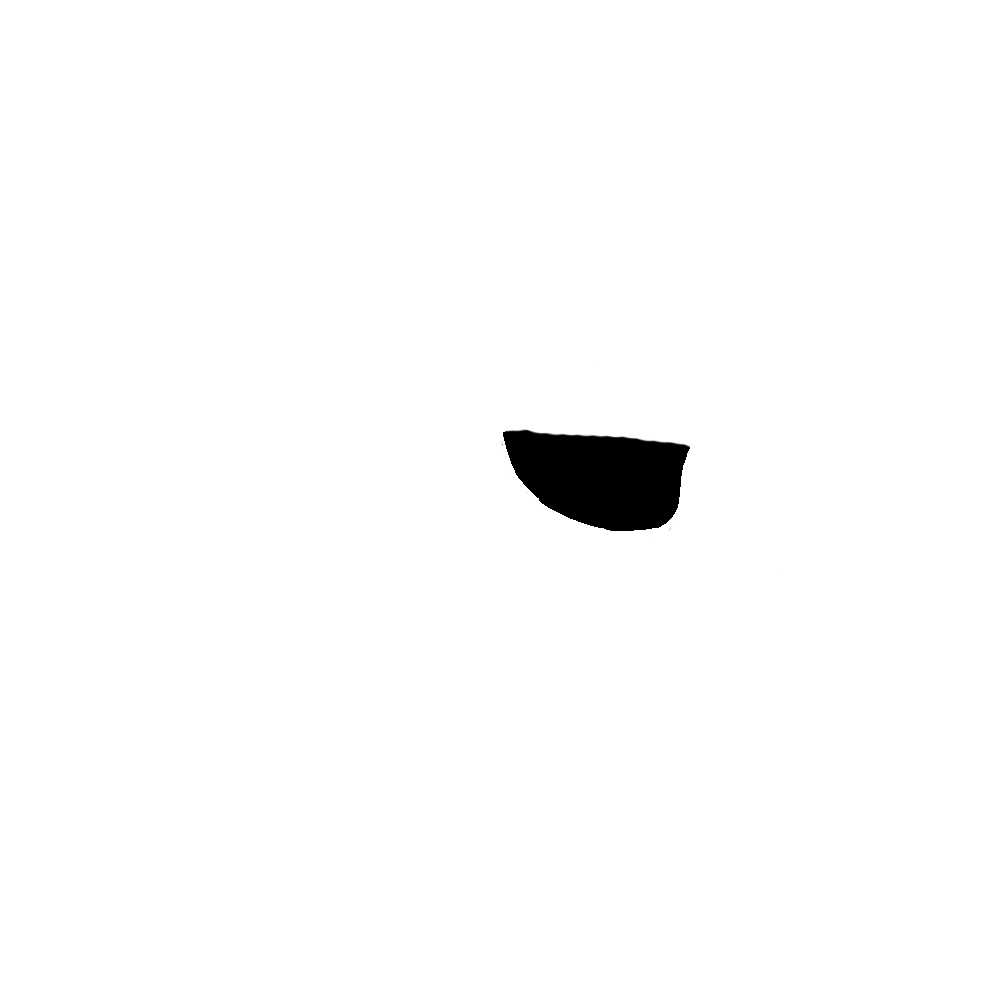
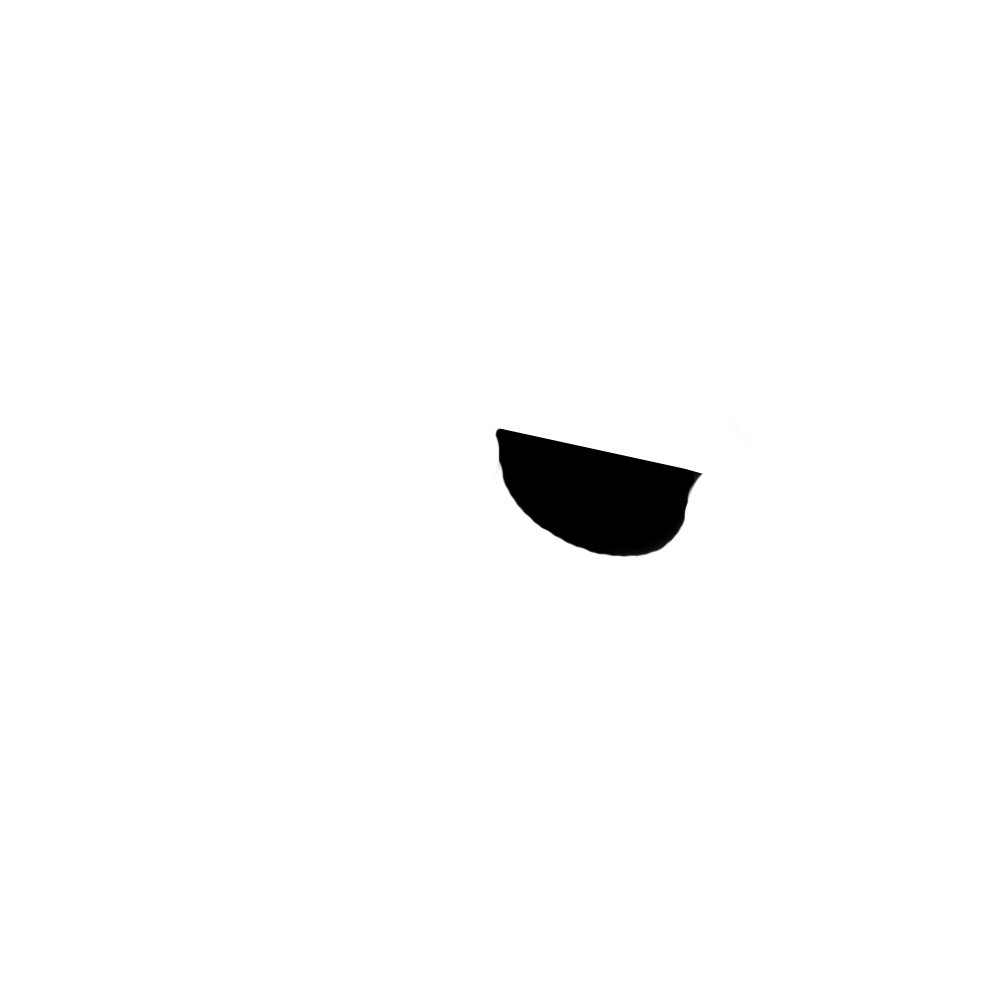
DHC: the head draws under the torso
Owner's observation: a head's neck is drawn down past the jaw, and over the
torso it lay ON TOP of the neckline instead of going into it. A neck that
overlaps the collar reads as a head resting on a body; a neck that disappears
behind it reads as a head IN a body, which is what the art is drawn for.

Base order is now background, weaponBack, head, torso, ... in both the config
and the canvas.

THIS DOES NOT CHANGE HOW MUCH BACKGROUND SHOWS, which is worth stating because
it is the obvious thing to assume. Background shows wherever NEITHER layer
covers, and no ordering can affect that -- measured both ways, identical to the
pixel. The neck fill is what closes that gap and is untouched; the two changes
fix different halves of the same junction.

Three things had to move with the head, because they were anchored to it back
when "after the head" also meant "over the body":

  - the neck fill, now emitted under the HEAD rather than under the torso, so
    the stack is background, fill, head, torso as intended
  - the Demon's claws, now anchored on the torso -- on the head they would have
    been drawn behind the chest, a demon gripping the Fighter from inside it
  - the arms that are meant to cover those claws, same reason; on the head they
    landed before the torso and the arms vanished behind the body

Shipping on the owner's call to look at it before deciding whether to keep it.
Known and NOT addressed: digi-goo-trap now draws over the face. It is the only
[…]

Changed region(s): [[0.496, 0.403, 0.713, 0.558]]

diff --git a/dhcfighters-config.php b/dhcfighters-config.php
@@ -78,9 +78,23 @@ define('DHCF_RULES_VERSION', '1');
  * same category, as do both effects slots -- owning a trait lets you place it
  * in either, subject to the front/back partition the assembler enforces.
  * ------------------------------------------------------------------ */
+/*
+ * THE HEAD DRAWS UNDER THE TORSO.
+ *
+ * It used to draw over it, and that was wrong in the one place the two meet:
+ * a head's neck is drawn down past the jaw, and over the torso it lay ON TOP
+ * of the neckline instead of going into it. A neck that overlaps the collar
+ * reads as a head resting on a body; a neck that disappears behind it reads as
+ * a head IN a body, which is what the art is drawn for.
+ *
+ * THIS DOES NOT CHANGE HOW MUCH BACKGROUND SHOWS. Background shows wherever
+ * NEITHER layer covers, which no ordering can affect -- measured both ways and
+ * identical to the pixel. The neck fill is what closes that, and it is
+ * unaffected by this; the two changes solve different halves of the junction.
+ */
 function dhcf_slots() {
-	return array('background', 'weaponBack', 'torso', 'weapon', 'arms',
-	             'effects1', 'effects2', 'head', 'headgear', 'companion');
+	return array('background', 'weaponBack', 'head', 'torso', 'weapon', 'arms',
+	             'effects1', 'effects2', 'headgear', 'companion');
 }
 
 function dhcf_slot_category($slot) {
@@ -584,11 +598,19 @@ function dhcf_companion_blocked($head, $companion) {
 	return isset($x[$head]) && in_array($companion, $x[$head], true);
 }
 
-/** Which slot the claws are drawn immediately after. */
+/**
+ * Which slot the claws are drawn immediately after.
+ *
+ * THE TORSO, NOT THE HEAD. It was the head, back when the head drew over the
+ * torso and "after the head" therefore meant "over the body as well". The head
+ * draws UNDER the torso now, so anchoring there would put the claws behind the
+ * chest -- a demon gripping a Fighter from inside it. The claws have to be
+ * over both, and the torso is the later of the two.
+ */
 function dhcf_twopart_hands_after($traits) {
 	$gear = isset($traits['headgear']) ? $traits['headgear'] : '';
 	if ($gear !== '' && in_array($gear, DHCF_TWOPART_HANDS_OVER_HEADGEAR, true)) return 'headgear';
-	return 'head';
+	return 'torso';
 }
 
 /** Is this companion the attached kind, with a second piece over the front? */
@@ -751,12 +773,14 @@ function dhcf_layer_order($traits) {
 			$order = dhcf_move_before($order, 'companion', 'torso');
 		}
 
-		/* After the HEAD, not last. dhcf_layers() inserts the claws immediately
-		   after the head slot, so head > claws > arms > headgear puts the arm
-		   over the claws without also lifting it over the helmet -- which
-		   dhcf_move_last() would have done. */
+		/* After the TORSO, not last, and not after the head. It was the head,
+		   when the head drew over the torso; now the head draws under it, so
+		   moving the arms there would put them behind the chest. The claws are
+		   emitted after the torso (see dhcf_twopart_hands_after), so
+		   torso > claws > arms > headgear puts the arm over the claws without
+		   also lifting it over the helmet -- which dhcf_move_last() would. */
 		if ($arms2 !== '' && in_array($arms2, DHCF_TWOPART_HANDS_UNDER_ARMS, true)) {
-			$order = dhcf_move_after($order, 'arms', 'head');
+			$order = dhcf_move_after($order, 'arms', 'torso');
 		}
 	}
 	if (!empty($traits['arms']) && in_array($traits['arms'], DHCF_ARMS_BEHIND_TORSO, true)) {

diff --git a/dhc-assembler.php b/dhc-assembler.php
@@ -54,6 +54,7 @@ $dhc_base = dhcf_art_dir();
 $dhc_slots = array(
 	'background' => array('Background',      'background', false),
 	'weaponBack' => array('Weapon (behind)', 'weapon',     true),
+	'head'       => array('Head',            'head',       false),
 	'torso'      => array('Torso',           'torso',      false),
 	// WEAPON BEFORE ARMS. A weapon is gripped, so the hand and forearm belong in
 	// front of it -- drawing arms first put the grip over the knuckles. Reported
@@ -69,7 +70,6 @@ $dhc_slots = array(
 	// interchangeable slots, so which one a trait goes in decides what covers what.
 	'effects1'   => array('Effects 1',       'effects',    true),
 	'effects2'   => array('Effects 2',       'effects',    true),
-	'head'       => array('Head',            'head',       false),
 	'headgear'   => array('Headgear',        'headgear',   true),
 	'companion'  => array('Companion',       'companion',  true),
 );
@@ -760,8 +760,11 @@ a{color:var(--ochre)}
            && !companionBlocked(sel.head, sel.companion);
   }
   /* Which slot the claws are drawn immediately after. */
+  /* THE TORSO, not the head -- the head draws under the torso now, so anchoring
+     the claws there would put them behind the chest. See
+     dhcf_twopart_hands_after(). */
   function twoPartHandsAfter() {
-    return (sel.headgear && TP_HANDS_OVER_GEAR.indexOf(sel.headgear) !== -1) ? 'headgear' : 'head';
+    return (sel.headgear && TP_HANDS_OVER_GEAR.indexOf(sel.headgear) !== -1) ? 'headgear' : 'torso';
   }
   function armsOverHeadgear() {
     return !!(sel.headgear && sel.arms
@@ -1143,7 +1146,7 @@ a{color:var(--ochre)}
       if (sel.arms && TP_OVER_ARMS.indexOf(sel.arms) !== -1)            mv('companion', 'arms', true);
       else if (sel.torso && TP_BODY_OVER_TORSO.indexOf(sel.torso) !== -1) mv('companion', 'torso', true);
       else                                                              mv('companion', 'torso', false);
-      if (sel.arms && TP_HANDS_UNDER_ARMS.indexOf(sel.arms) !== -1)     mv('arms', 'head', true);
+      if (sel.arms && TP_HANDS_UNDER_ARMS.indexOf(sel.arms) !== -1)     mv('arms', 'torso', true);
     }
     if (armsBehindTorso()) {
       var k = order.map(function (s) { return s.key; });
@@ -1328,8 +1331,8 @@ a{color:var(--ochre)}
     }
     // keep DOM order == layer order, regardless of the order things were picked
     layerOrder().forEach(function (s) {
-      // the neck fill goes UNDER the torso, so it is appended before it
-      if (s.key === 'torso') {
+      // the neck fill goes under the HEAD, which itself goes under the torso
+      if (s.key === 'head') {
         var nf = document.getElementById('L-neckfill');
         if (nf) frame.appendChild(nf);
       }

diff --git a/dhc-layerorder-harness.php b/dhc-layerorder-harness.php
@@ -369,7 +369,11 @@ if (DHCF_COMPANION_TWO_PART) {
 	/* And the anchor the canvas picks has to be the same one, for both kinds
 	   of headgear -- that is the whole of the rule the two share. */
 	foreach (array(DHCF_TWOPART_HANDS_OVER_HEADGEAR[0] => 'headgear',
-	               '666-demon-headgear'                => 'head') as $gear => $want) {
+	/* 'torso', not 'head': the head draws UNDER the torso now, so anchoring the
+	   claws on it would put them behind the chest. The five helmets on
+	   DHCF_TWOPART_HANDS_OVER_HEADGEAR are unchanged -- those still want the
+	   claws over the helmet, which is later again. */
+	               '666-demon-headgear'                => 'torso') as $gear => $want) {
 		ok(dhcf_twopart_hands_after(array('headgear' => $gear)) === $want,
 		   "php anchors the claws on '" . dhcf_twopart_hands_after(array('headgear' => $gear))
 		 . "' with $gear, not '$want'");
@@ -679,8 +683,9 @@ if (DHCF_COMPANION_TWO_PART) {
 		                     file_get_contents(__DIR__ . '/dhc-assembler.php'));
 		ok(strpos($asm4, "url('neckfill', 'neckfill', 1000)") !== false,
 		   'the canvas does not build the neck fill path, so the assembler keeps the bleed');
-		ok(preg_match("/if \(s\.key === 'torso'\) \{\s*var nf = document\.getElementById\('L-neckfill'\);/", $asm4) === 1,
-		   'the canvas does not append the neck fill immediately before the torso');
+		/* Before the HEAD, which is itself before the torso. */
+		ok(preg_match("/if \(s\.key === 'head'\) \{\s*var nf = document\.getElementById\('L-neckfill'\);/", $asm4) === 1,
+		   'the canvas does not append the neck fill immediately before the head');
 		ok(strpos($asm4, "if (!sel.torso || !sel.head) {") !== false,
 		   'the canvas draws the neck fill without a head or without a torso');
 	} else {

diff --git a/dhcfighters-lib.php b/dhcfighters-lib.php
@@ -1109,12 +1109,13 @@ function dhcf_layers($traits, $webroot = '') {
 		 * computes it as the region that is never open sky for ANY
 		 * torso/arms/head combination in the game.
 		 *
-		 * ONLY WITH A HEAD ON. With no head the socket is open sky rather than
-		 * a hole, and a black plate in it is just a black plate -- the
-		 * generator leaves the no-head case out of its safety set for exactly
-		 * this reason, so the layer must not be drawn without one.
+		 * BOTH A TORSO AND A HEAD. With no head the socket is open sky rather
+		 * than a hole and a black plate in it is just a black plate; with no
+		 * torso there is no socket at all. The emit now hangs off the HEAD
+		 * slot rather than the torso, because the head draws under the torso
+		 * and this has to be under the head -- background, fill, head, torso.
 		 */
-		if ($slot === 'torso' && !empty($traits['head']) && $webroot !== ''
+		if ($slot === 'head' && !empty($traits['torso']) && $webroot !== ''
 		    && is_file($webroot . '/1000/neckfill/neckfill.png')) {
 			$out[] = array('cat' => 'neckfill', 'slug' => 'neckfill',
 			               'nudge' => 0, 'clip' => '');
